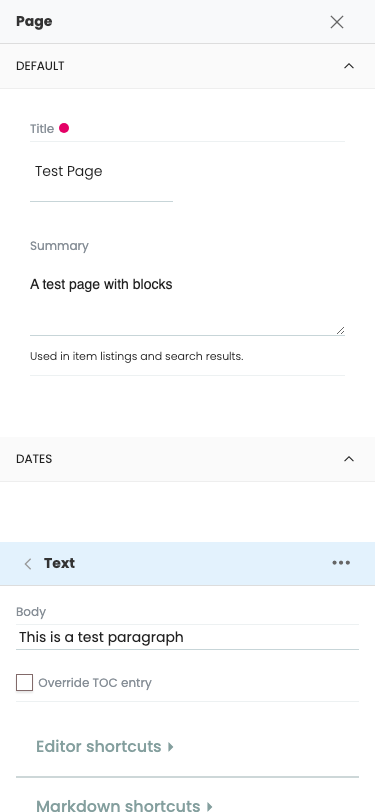
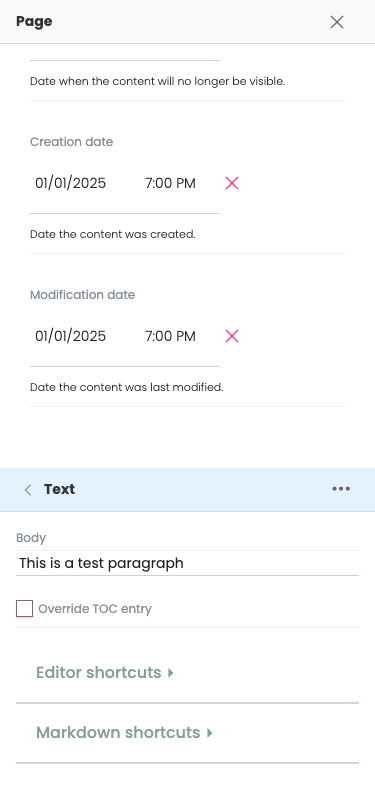
fix(mobile): collapse #toolbar .pusher + drop max-height clamp + hide handler
User reported (on actual mobile, viewing a non-edit page): "the toolbar
is pushed down screen so there is no way to get at the icons. there is
a gap at the top of the screen." Until now I'd only screenshot-tested
edit mode; the bug was in view mode AND was hidden in edit mode by the
iframe overlay.

TDD this fix:

Three failing tests added FIRST in mobile-tablet-admin-layout.spec.ts:
 - "view mode: no phantom gap at the top of the viewport" — asserts
   #main starts at y < 10 AND #toolbar .pusher height < 5. Was: y=100,
   pusher=100. (Confirmed failing on the pre-fix code.)
 - "edit mode: no phantom gap at the top either" — same .pusher
   assertion in edit mode. Was: pusher=100. (Confirmed failing.)
 - "bottom toolbar: full 44px content area, not squeezed by safe-area
   padding" — asserts the Save button is visible, ≥30px tall, and its
   bottom edge stays at y ≤ 812. Was: button bottom at y=840 (28px
   below viewport). (Confirmed failing.)

Root causes:

 1. Volto stock reserves ~100px of vertical layout space at the top via
    `#toolbar > .pusher` so static content sits BELOW the (desktop,
    left-anchored) toolbar. My mobile CSS pulls #toolbar-body out to
    position:fixed bottom:0 — .pusher's reservation is now a phantom
    gap with no toolbar in it. Hidden in edit mode by the iframe
    overlay; ugly in view mode where there is no overlay.

 2. The earlier `height: 44px !important; max-height: 44px !important`
[…]

diff --git a/tests-playwright/integration/mobile-tablet-admin-layout.spec.ts b/tests-playwright/integration/mobile-tablet-admin-layout.spec.ts
@@ -646,6 +646,103 @@ test.describe('Admin layout — mobile (≤767px)', () => {
       'picker wrapper covers viewport bottom',
     ).toBeGreaterThan(800);
   });
+
+  /**
+   * User-reported regression: on mobile in VIEW mode (not /edit), the
+   * editor saw a big empty gap at the top of the screen and the
+   * bottom toolbar's icons were squeezed/cut off.
+   *
+   * Root cause investigated against prod:
+   *  - #toolbar > .pusher is a stock Volto layout element that
+   *    reserves vertical space at the top (~100px on mobile) so page
+   *    content sits BELOW where the toolbar would be. On desktop the
+   *    toolbar is at the left/top so this reservation is correct.
+   *    On mobile our CSS pulls #toolbar-body out to position:fixed
+   *    bottom:0, so .pusher's reservation becomes a phantom gap with
+   *    no toolbar inside it.
+   *  - The toolbar's `height: 44px !important` + `padding-bottom:
+   *    env(safe-area-inset-bottom)` fight on iOS: padding pushes
+   *    actual height past 44px but max-height clamps content area to
+   *    ~10px after the home-indicator padding, squeezing the icons.
+   *
+   * These tests assert the symptoms (no gap at top, toolbar fully
+   * intact at bottom) so any future regression is caught.
+   */
+  test('view mode: no phantom gap at the top of the viewport', async ({
+    page,
+  }) => {
+    await page.setViewportSize({ width: 375, height: 812 });
+    const helper = new AdminUIHelper(page);
+    await helper.login();
+    await helper.navigateToView('/test-page');
+
+    // #main should start within ~10px of viewport top — i.e. no
+    // reserved toolbar space pushing it down. The bug had it at y=100.
+    const main = await page.locator('#main').boundingBox();
+    expect(main).not.toBeNull();
+    expect(
+      main!.y,
+      '#main must not be pushed down by phantom toolbar reservation',
+    ).toBeLessThan(10);
+
+    // Direct: the layout-space reservation element (#toolbar .pusher)
+    // must collapse to zero height on mobile.
+    const pusherH = await page
+      .locator('#toolbar .pusher')
+      .evaluate((el) => el.getBoundingClientRect().height);
+    expect(
+      pusherH,
+      '#toolbar .pusher must have 0 height on mobile (it reserves space we do not need)',
+    ).toBeLessThan(5);
+  });
+
+  test('edit mode: no phantom gap at the top either', async ({ page }) => {
+    // Edit mode hides the gap visually because the iframe is fixed
+    // over it, but the underlying layout reservation is still wrong.
+    // Same assertion as view mode — .pusher should collapse.
+    await page.setViewportSize({ width: 375, height: 812 });
+    const helper = new AdminUIHelper(page);
+    await helper.login();
+    await helper.navigateToEdit('/test-page');
+
+    const pusherH = await page
+      .locator('#toolbar .pusher')
+      .evaluate((el) => el.getBoundingClientRect().height);
+    expect(
+      pusherH,
+      '#toolbar .pusher must have 0 height on mobile in edit mode too',
+    ).toBeLessThan(5);
+  });
+
+  test('bottom toolbar: full 44px content area, not squeezed by safe-area padding', async ({
+    page,
+  }) => {
+    await page.setViewportSize({ width: 375, height: 812 });
+    const helper = new AdminUIHelper(page);
+    await helper.login();
+    await helper.navigateToEdit('/test-page');
+
+    // Probe: the icon button inside the toolbar must render at the
+    // intended ~44px height. If safe-area padding squeezes the inner
+    // content the buttons collapse and become unclickable.
+    const tb = await page.locator('#toolbar-body').boundingBox();
+    expect(tb).not.toBeNull();
+    expect(tb!.height, 'toolbar visible band').toBeGreaterThanOrEqual(40);
+
+    // Sample an actual icon button in the toolbar — it should be
+    // ≥30px tall (not crushed). The Save button always exists.
+    const saveBtn = page.locator('#toolbar-body .save').first();
+    await expect(saveBtn).toBeVisible({ timeout: 5000 });
+    const sb = await saveBtn.boundingBox();
+    expect(sb).not.toBeNull();
+    expect(
+      sb!.height,
+      'toolbar icon button must keep ~44px content area, not get crushed by safe-area padding',
+    ).toBeGreaterThanOrEqual(30);
+    // And the button must be inside the viewport vertically.
+    expect(sb!.y + sb!.height, 'button bottom edge inside viewport').toBeLessThanOrEqual(812);
+    expect(sb!.y, 'button top edge inside viewport').toBeGreaterThanOrEqual(0);
+  });
 });
 
 /**

diff --git a/packages/volto-hydra/src/components/mobile-tablet.css b/packages/volto-hydra/src/components/mobile-tablet.css
@@ -92,21 +92,60 @@
    * Compact to match Quanta's height (44px) so the two bars feel
    * balanced and the iframe canvas gets the maximum vertical space.
    * Allow horizontal scroll if there are more icons than fit at 375px;
-   * the bar's role is quick-access shortcuts, not a primary menu. */
+   * the bar's role is quick-access shortcuts, not a primary menu.
+   *
+   * Heights: min-height: 44px reserves space for the icons; padding-bottom
+   * with env(safe-area-inset-bottom) extends the bar BELOW the icons by
+   * the iOS home-indicator height (~34px). DO NOT add max-height — that
+   * would clamp the total box and the safe-area padding would eat into
+   * the icon content area, squeezing the icons to ~10px (the user-visible
+   * regression that triggered this rewrite). */
   #toolbar-body {
     top: auto !important;
     bottom: 0 !important;
     left: 0 !important;
     right: 0 !important;
     width: 100% !important;
-    height: 44px !important;
+    height: auto !important;
     min-height: 44px !important;
-    max-height: 44px !important;
+    max-height: none !important;
     padding-bottom: env(safe-area-inset-bottom) !important;
     z-index: auto !important;
     flex-direction: row !important;
     overflow-x: auto !important;
     overflow-y: hidden !important;
+  }
+  /* Stock Volto nests a `.toolbar-body` (CLASS) container inside the
+   * `#toolbar-body` (ID) wrapper — on desktop it's a vertical column
+   * holding Save/Cancel/etc. stacked top-to-bottom. On mobile we lay
+   * the icons out horizontally so they fit in the 44px bottom bar.
+   * Without this rule the inner column stays vertical (~100px tall),
+   * which pushes #toolbar-body's auto-height up too and breaks the
+   * "44px tall" invariant the existing test (line ~489) checks. */
+  #toolbar-body .toolbar-body {
+    flex-direction: row !important;
+    height: 44px !important;
+    min-height: 44px !important;
+    max-height: 44px !important;
+  }
+  /* The desktop "Shrink toolbar" handle (.toolbar-handler) is rendered
+   * as a sibling of .toolbar-body inside #toolbar-body. On the
+   * compact mobile bar there is nothing to shrink, and the handle's
+   * default positioning overlaps the rightmost toolbar buttons
+   * (frontend switcher, settings shortcut) and steals clicks. Hide it. */
+  #toolbar-body .toolbar-handler {
+    display: none !important;
+  }
+  /* Volto stock layout reserves ~100px of vertical space at the top via
+   * `#toolbar > .pusher` so static content sits BELOW where the
+   * (desktop, left-anchored) toolbar would be. On mobile we pull
+   * #toolbar-body out to position:fixed at the BOTTOM — so .pusher's
+   * reservation becomes a phantom gap with no toolbar inside it. This
+   * is what the user saw as "the toolbar is pushed down screen, gap
+   * at the top". Collapse the pusher on mobile so #main sits at y=0. */
+  #toolbar .pusher {
+    height: 0 !important;
+    min-height: 0 !important;
   }
   /* Icons inside the bottom toolbar — scale to fit the 44px bar. */
   #toolbar-body button,